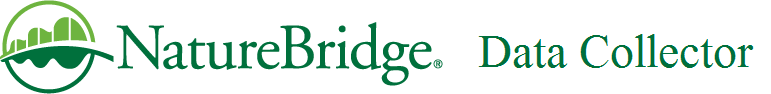
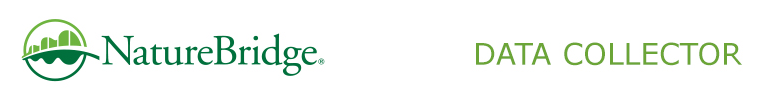
Home Page Look and Feel
Home Page
1/ Support new header with NatureBridge logo
and DATA COLLECTOR
2/ Support new Background Images that include
the Site Name

TransmitViewController.m
1/ Change header Field Scope to
National Geographic's FieldScope

Changed region(s): [[0.0, 0.0, 0.9909, 1.0]]

diff --git a/NatureBridge/TransmitViewController.m b/NatureBridge/TransmitViewController.m
@@ -31,7 +31,7 @@ NSString *authenticatedMode;
     self = [super initWithNibName:nibNameOrNil bundle:nibBundleOrNil];
     if (self) {
         // Custom initialization
-        [[self navigationItem] setTitle:@"Field Scope"];
+        [[self navigationItem] setTitle:@"National Geographic's FieldScope"];
     }
     return self;
 }
